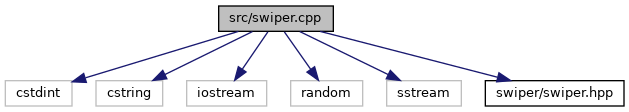
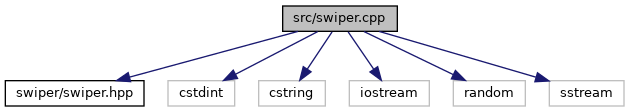
Travis build: 11
Commit: 6086b62fdb9e3a45956c2732ffa883ca7ffaef4a

diff --git a/swiper_8cpp.html b/swiper_8cpp.html
@@ -69,24 +69,24 @@ $(function() {
 <div class="title">swiper.cpp File Reference</div>  </div>
 </div><!--header-->
 <div class="contents">
-<div class="textblock"><code>#include &lt;cstdint&gt;</code><br />
+<div class="textblock"><code>#include &quot;<a class="el" href="swiper_8hpp_source.html">swiper/swiper.hpp</a>&quot;</code><br />
+<code>#include &lt;cstdint&gt;</code><br />
 <code>#include &lt;cstring&gt;</code><br />
 <code>#include &lt;iostream&gt;</code><br />
 <code>#include &lt;random&gt;</code><br />
 <code>#include &lt;sstream&gt;</code><br />
-<code>#include &quot;<a class="el" href="swiper_8hpp_source.html">swiper/swiper.hpp</a>&quot;</code><br />
 </div><div class="textblock"><div class="dynheader">
 Include dependency graph for swiper.cpp:</div>
 <div class="dyncontent">
 <div class="center"><img src="swiper_8cpp__incl.png" border="0" usemap="#src_2swiper_8cpp" alt=""/></div>
 <map name="src_2swiper_8cpp" id="src_2swiper_8cpp">
-<area shape="rect" title=" " alt="" coords="219,5,333,32"/>
-<area shape="rect" title=" " alt="" coords="5,80,72,107"/>
-<area shape="rect" title=" " alt="" coords="96,80,163,107"/>
-<area shape="rect" title=" " alt="" coords="187,80,267,107"/>
-<area shape="rect" title=" " alt="" coords="291,80,363,107"/>
-<area shape="rect" title=" " alt="" coords="387,80,461,107"/>
-<area shape="rect" href="swiper_8hpp.html" title=" " alt="" coords="485,80,624,107"/>
+<area shape="rect" title=" " alt="" coords="283,5,397,32"/>
+<area shape="rect" href="swiper_8hpp.html" title=" " alt="" coords="5,80,144,107"/>
+<area shape="rect" title=" " alt="" coords="168,80,235,107"/>
+<area shape="rect" title=" " alt="" coords="259,80,325,107"/>
+<area shape="rect" title=" " alt="" coords="349,80,429,107"/>
+<area shape="rect" title=" " alt="" coords="453,80,525,107"/>
+<area shape="rect" title=" " alt="" coords="549,80,624,107"/>
 </map>
 </div>
 </div></div><!-- contents -->

diff --git a/README.md b/README.md
@@ -1,1 +1,1 @@
-Tue 02 Mar 2021 01:47:48 AM UTC
+Tue 02 Mar 2021 01:55:23 AM UTC
